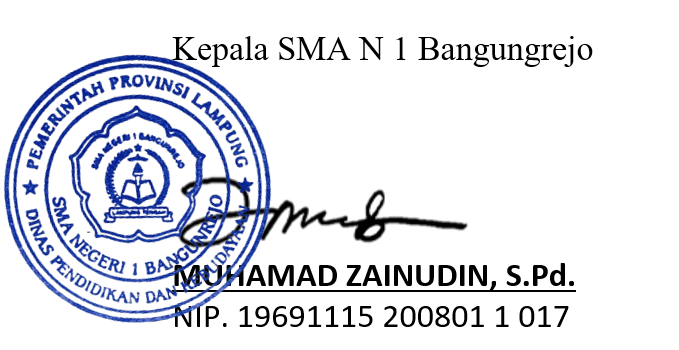
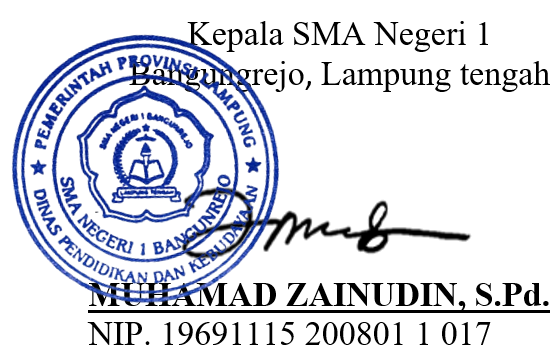
Desain kartu pelajar: layout kop & ttd disempurnakan
+ TTD kepsek: aset baru transparan, 15mm flush kanan + margin 1mm, NIP duduk di band footer

+ Logo kop: hapus badge/background putih, logo transparan langsung di gradasi

+ to_jpeg() alpha-preserving (output PNG) untuk logo/ikon/QR/ttd agar transparansi PDF utuh

+ QR diperbesar 15mm; alamat panjang wrap di kolomnya (tidak menimpa ttd)

+ Aksen garis biru sisi teks KARTU PELAJAR kini ikut di PDF

+ Bingkai hitam 0.3mm digambar terakhir (tidak putus tertimpa rect), match preview

+ Teks kop & KARTU PELAJAR diperbesar; dashed band/footer dihapus; band judul #f1f1f1 (footer tetap #f8fafc)

+ Stripe kop pas binggai (overdraw dihapus); kop 8pt/7pt; KARTU PELAJAR putih abu #f1f1f1

diff --git a/admin/unduh_kartu.php b/admin/unduh_kartu.php
@@ -15,6 +15,46 @@ class PDF_Kartu extends FPDF
 {
     protected $extgstates = array();
 
+    // Ellipse (FPDF core tidak punya) — 4 kurva Bezier, raw PDF operator
+    function ellipse($x, $y, $w, $h, $style = 'D')
+    {
+        $k = $this->k;
+        $hp = $this->h;
+        $kappa = 0.5522847498;
+        $cx = $x + $w / 2;
+        $cy = $y + $h / 2;
+        $ox = ($w / 2) * $kappa;
+        $oy = ($h / 2) * $kappa;
+        $op = sprintf(
+            '%.2F %.2F m ' .
+            '%.2F %.2F %.2F %.2F %.2F %.2F c ' . // atas -> kanan
+            '%.2F %.2F %.2F %.2F %.2F %.2F c ' . // kanan -> bawah
+            '%.2F %.2F %.2F %.2F %.2F %.2F c ' . // bawah -> kiri
+            '%.2F %.2F %.2F %.2F %.2F %.2F c ',  // kiri -> atas
+            $cx * $k, ($hp - $y) * $k,
+            ($cx + $ox) * $k, ($hp - $y) * $k,
+            ($x + $w) * $k, ($hp - ($cy - $oy)) * $k,
+            ($x + $w) * $k, ($hp - $cy) * $k,
+            ($x + $w) * $k, ($hp - ($cy + $oy)) * $k,
+            ($cx + $ox) * $k, ($hp - ($y + $h)) * $k,
+            $cx * $k, ($hp - ($y + $h)) * $k,
+            ($cx - $ox) * $k, ($hp - ($y + $h)) * $k,
+            $x * $k, ($hp - ($cy + $oy)) * $k,
+            $x * $k, ($hp - $cy) * $k,
+            $x * $k, ($hp - ($cy - $oy)) * $k,
+            ($cx - $ox) * $k, ($hp - $y) * $k,
+            $cx * $k, ($hp - $y) * $k
+        );
+        if ($style === 'F') {
+            $op .= 'f';
+        } elseif ($style === 'DF') {
+            $op .= 'B';
+        } else {
+            $op .= 'S';
+        }
+        $this->_out($op);
+    }
+
     function SetAlpha($alpha, $bm = 'Normal')
     {
         $gs = $this->AddExtGState(array('ca' => $alpha, 'CA' => $alpha, 'BM' => '/' . $bm));
@@ -111,12 +151,30 @@ function to_jpeg($src, $maxW, $maxH)
     $nw = max(1, round($w * $scale));
     $nh = max(1, round($h * $scale));
     $out = imagecreatetruecolor($nw, $nh);
-    $white = imagecolorallocate($out, 255, 255, 255);
-    imagefill($out, 0, 0, $white);
+    // Preserve alpha bila source punya transparansi (logo, ikon, ttd);
+    // foto biasa (tanpa alpha) tetap berlatar putih.
+    $hasAlpha = false;
+    $stepX = max(1, intdiv($w, 40));
+    $stepY = max(1, intdiv($h, 40));
+    for ($yy = 0; $yy < $h && !$hasAlpha; $yy += $stepY) {
+        for ($xx = 0; $xx < $w && !$hasAlpha; $xx += $stepX) {
+            if (((imagecolorat($im, $xx, $yy) & 0x7F000000) >> 24) >= 100) {
+                $hasAlpha = true;
+            }
+        }
+    }
+    if ($hasAlpha) {
+        imagesavealpha($out, true);
+        imagealphablending($out, false);
+        imagefilledrectangle($out, 0, 0, $nw, $nh, imagecolorallocatealpha($out, 0, 0, 0, 127));
+    } else {
+        imagefill($out, 0, 0, imagecolorallocate($out, 255, 255, 255));
+    }
+    imagealphablending($out, true);
     imagecopyresampled($out, $im, 0, 0, 0, 0, $nw, $nh, $w, $h);
     imagedestroy($im);
-    $tmp = tempnam(sys_get_temp_dir(), 'kartu') . '.jpg';
-    imagejpeg($out, $tmp, 90);
+    $tmp = tempnam(sys_get_temp_dir(), 'kartu') . '.png';
+    imagepng($out, $tmp, 9);
     imagedestroy($out);
     return $tmp;
 }
@@ -159,8 +217,11 @@ function grad_color($t)
 }
 
 // Garis putus-putus
-function dashed_line($pdf, $x1, $y, $x2, $lw, $gap)
+function dashed_line($pdf, $x1, $y, $x2, $lw, $gap, $cr = null, $cg = null, $cb = null)
 {
+    if ($cr !== null) {
+        $pdf->SetDrawColor($cr, $cg, $cb);
+    }
     $x = $x1;
     while ($x < $x2) {
         $end = min($x + $lw, $x2);
@@ -197,7 +258,8 @@ $cDark = array(15, 23, 42);
 $cBlueDark = array(30, 58, 138);
 $cBlue = array(59, 130, 246);
 $cLineLight = array(147, 197, 253);
-$cBg = array(248, 250, 252);
+$cBg = array(241, 241, 241);       // band judul: putih samar abu-abu (match HTML #f1f1f1)
+$cFooter = array(248, 250, 252);   // band footer tetap #f8fafc (match HTML)
 $cGold = array(251, 191, 36);
 $cGray = array(148, 163, 184);
 $cBody = array(71, 85, 105);
@@ -213,7 +275,7 @@ $logo_in = 8.2;  // logo di dalam badge
 $logo_pad = 0.53;
 $photo_w = 13.19; // foto
 $photo_h = 16.4;
-$qr_size = 12.84; // QR
+$qr_size = 15.0; // QR (diperbesar lagi; bottom y+37.09, gap 0.31mm di atas tinta ttd y+37.4)
 $pad = 2.85;
 
 foreach ($students as $idx => $s) {
@@ -225,28 +287,23 @@ foreach ($students as $idx => $s) {
     $x = 12 + ($slot % 2) * 95.6;
     $y = 8 + intval($slot / 2) * 70;
 
-    // ---- Bingkai kartu ----
-    $pdf->SetLineWidth(0.3);
-    $pdf->SetDrawColor($cDark[0], $cDark[1], $cDark[2]);
-    $pdf->Rect($x, $y, $CW, $CH);
+    // (bingkai digambar TERAKHIR di akhir loop agar tidak tertimpa rect kop/band/footer)
 
     // ---- KOP: gradasi ----
     $steps = 60;
     $stripe = $CW / $steps;
+    $stripeOver = 0; // overdraw 0.5mm dihapus: background kop jangan melewati bingkai kanan
     for ($i = 0; $i < $steps; $i++) {
         $c = grad_color($i / $steps);
         $pdf->SetFillColor($c[0], $c[1], $c[2]);
-        $pdf->Rect($x + $i * $stripe, $y, $stripe + 0.5, $kopH, 'F');
+        $pdf->Rect($x + $i * $stripe, $y, $stripe + $stripeOver, $kopH, 'F');
     }
     // Garis bawah kop
     $pdf->SetLineWidth(0.5);
     $pdf->SetDrawColor($cLineLight[0], $cLineLight[1], $cLineLight[2]);
     $pdf->Line($x, $y + $kopH, $x + $CW, $y + $kopH);
 
-    // Badge putih + logo kiri & kanan
-    $pdf->SetFillColor(255, 255, 255);
-    $pdf->Rect($x + 1.35, $y + 1.5, $badge, $badge, 'F');
-    $pdf->Rect($x + $CW - 1.35 - $badge, $y + 1.5, $badge, $badge, 'F');
+    // Logo kiri & kanan langsung di atas gradasi (background putih dihapus, logo PNG transparan)
     if ($logo_lampung) {
         $pdf->Image($logo_lampung, $x + 1.35 + $logo_pad, $y + 1.5 + $logo_pad, $logo_in, $logo_in);
     }
@@ -254,30 +311,54 @@ foreach ($students as $idx => $s) {
         $pdf->Image($logo_sman1, $x + $CW - 1.35 - $badge + $logo_pad, $y + 1.5 + $logo_pad, $logo_in, $logo_in);
     }
 
-    // Teks kop (tengah)
+    // Teks kop (tengah, diperbesar)
     $pdf->SetTextColor(255, 255, 255);
-    $pdf->SetFont('Helvetica', 'B', 6.5);
-    $pdf->SetXY($x, $y + 2.2);
-    $pdf->Cell($CW, 2.3, 'PEMERINTAHAN PROVINSI LAMPUNG', 0, 0, 'C');
+    $pdf->SetFont('Helvetica', 'B', 8);
+    $pdf->SetXY($x, $y + 2.0);
+    $pdf->Cell($CW, 2.6, 'PEMERINTAHAN PROVINSI LAMPUNG', 0, 0, 'C');
 
     $pdf->SetTextColor(191, 219, 254);
-    $pdf->SetFont('Helvetica', '', 6);
-    $pdf->SetXY($x, $y + 4.7);
-    $pdf->Cell($CW, 2.1, 'DINAS PENDIDIKAN DAN KEBUDAYAAN', 0, 0, 'C');
+    $pdf->SetFont('Helvetica', '', 7);
+    $pdf->SetXY($x, $y + 4.8);
+    $pdf->Cell($CW, 2.3, 'DINAS PENDIDIKAN DAN KEBUDAYAAN', 0, 0, 'C');
 
     $pdf->SetTextColor($cGold[0], $cGold[1], $cGold[2]);
-    $pdf->SetFont('Helvetica', 'B', 6.5);
-    $pdf->SetXY($x, $y + 7.2);
-    $pdf->Cell($CW, 2.3, 'SMAN 1 BANGUNREJO', 0, 0, 'C');
+    $pdf->SetFont('Helvetica', 'B', 8);
+    $pdf->SetXY($x, $y + 7.4);
+    $pdf->Cell($CW, 2.6, 'SMAN 1 BANGUNREJO', 0, 0, 'C');
 
     // ---- Band judul ----
     $pdf->SetFillColor($cBg[0], $cBg[1], $cBg[2]);
     $pdf->Rect($x, $y + $kopH, $CW, $titleH, 'F');
-    dashed_line($pdf, $x, $y + $kopH + $titleH, $x + $CW, 0.3, 0.2);
+    // (dashed line di bawah band judul dihapus sesuai request)
     $pdf->SetTextColor($cBlueDark[0], $cBlueDark[1], $cBlueDark[2]);
-    $pdf->SetFont('Helvetica', 'B', 6);
-    $pdf->SetXY($x, $y + $kopH + 1.35);
-    $pdf->Cell($CW, 2.0, 'KARTU PELAJAR', 0, 0, 'C');
+    $pdf->SetFont('Helvetica', 'B', 7.5);
+    $pdf->SetXY($x, $y + $kopH + 1.7);
+    $pdf->Cell($CW, 2.4, 'KARTU PELAJAR', 0, 0, 'C');
+
+    // Aksen tanda "-" di sisi kiri & kanan judul (meniru tampilan web: gradasi transparan -> biru)
+    $barW = 6.88;   // 26px
+    $barH = 0.4;    // 1.5px
+    $barGap = 2.12; // 8px
+    $cBlueAcc = array(59, 130, 246); // #3b82f6
+    $cxBar = $x + $CW / 2;
+    $halfT = $pdf->GetStringWidth('KARTU PELAJAR') / 2 + 0.5;
+    $segs = array(0.35, 0.7, 1.0); // gradasi 3 segmen (transparan -> biru)
+    $segW = $barW / count($segs);
+    $yBar = $y + $kopH + 2.9 - $barH / 2;
+    foreach (array(-1, 1) as $side) {
+        foreach ($segs as $i => $f) {
+            $pdf->SetFillColor(
+                $cBg[0] + ($cBlueAcc[0] - $cBg[0]) * $f,
+                $cBg[1] + ($cBlueAcc[1] - $cBg[1]) * $f,
+                $cBg[2] + ($cBlueAcc[2] - $cBg[2]) * $f
+            );
+            $bx = ($side < 0)
+                ? ($cxBar - $halfT - $barGap - $barW + $i * $segW)
+                : ($cxBar + $halfT + $barGap + $i * $segW);
+            $pdf->Rect($bx, $yBar, $segW + 0.01, $barH, 'F');
+        }
+    }
 
     // ---- Watermark logo di tengah kartu ----
     if ($logo_sman1_wm) {
@@ -329,7 +410,9 @@ foreach ($students as $idx => $s) {
     $lblX = $infoX + 1.07 + $iconSize;
     $colonX = $lblX + 10.35;           // kolom label
     $valX = $colonX + 1.07;
-    $valMaxRow = $x + $CW - $pad - $qr_size - $pad - $valX;
+    // Lebar nilai dibatasi berhenti sebelum zona tanda tangan (ttd mulai x+61.37),
+    // supaya alamat panjang wrap ke bawah, bukan menimpa tanda tangan.
+    $valMaxRow = ($x + 60.2) - $valX;
 
     $rowY = $nameY + 4.68;
     foreach ($rows as $r) {
@@ -345,14 +428,19 @@ foreach ($students as $idx => $s) {
         $pdf->SetXY($colonX, $rowY);
         $pdf->Cell(1.07, 2.0, ':');
         // Nilai
-        $pdf->SetTextColor($cBody[0], $cBody[1], $cBody[2]);
+        $pdf->SetTextColor(0, 0, 0);
         $pdf->SetFont('Helvetica', '', 6);
         if ($r[0] === 'alamat') {
             $pdf->SetXY($valX, $rowY);
             $pdf->MultiCell($valMaxRow, 2.0, $r[2]);
         } else {
             $pdf->SetXY($valX, $rowY);
-            $pdf->Cell($valMaxRow, 2.0, $r[2]);
+            // Clip di lebar kolom (… bila kepanjangan), tidak menimpa QR/ttd
+            $valClip = mb_substr($r[2], 0, 37);
+            if (mb_strlen($r[2]) > 37) {
+                $valClip = rtrim(mb_substr($r[2], 0, 34)) . chr(133);
+            }
+            $pdf->Cell($valMaxRow, 2.0, $valClip);
         }
         $rowY += 2.89;
     }
@@ -373,36 +461,41 @@ foreach ($students as $idx => $s) {
     $pdf->SetDrawColor($cPhotoBorder[0], $cPhotoBorder[1], $cPhotoBorder[2]);
     $pdf->Rect($qrx, $qry, $qr_size, $qr_size);
     $pdf->SetTextColor($cGray[0], $cGray[1], $cGray[2]);
-    $pdf->SetFont('Helvetica', 'B', 4.5);
-    $pdf->SetXY($qrx, $qry + $qr_size + 0.71);
-    $pdf->Cell($qr_size, 1.5, 'QR ABSEN', 0, 0, 'C');
 
     // ---- Tanda tangan Kepala Sekolah (kanan bawah, di bawah QR) ----
     // Gambar sudah memuat cap + tanda tangan + nama + NIP (semua di dalam gambar).
-    $ttdRight = $x + $CW - $pad;          // tepi kanan rata
-    $ttdH = 12.0;                          // tinggi gambar (mm)
-    // Rasio dibaca dinamik dari file aset (fallback 679x350 bila getimagesize gagal)
+    $ttdRight = $x + $CW - 1.0;           // margin kanan 1mm dari tepi kartu (gambar sudah di-crop flush kanan)
+    $ttdH = 15.0;                          // tinggi gambar (mm)
+    // Rasio dibaca dinamik dari file aset (fallback 626x356 bila getimagesize gagal)
     $ttd_size = @getimagesize(KEPSEK_TTD);
-    $ttd_ratio = 679 / 350;
+    $ttd_ratio = 550 / 356;
     if (is_array($ttd_size) && !empty($ttd_size) && !empty($ttd_size[1])) {
         $ttd_ratio = $ttd_size[0] / $ttd_size[1];
     }
     $ttdW = $ttdH * $ttd_ratio;
-    $ttdY = $y + 37.5;                     // mulai di bawah caption QR (37.14), muat antes footer (49.86)
+    $ttdY = $y + 36.5;                     // mulai di bawah QR (34.93); NIP duduk ~1.6mm di band footer
     // Gambar tanda tangan (PNG transparan — FPDF mendukung alpha)
     if (file_exists(KEPSEK_TTD)) {
         $pdf->Image(KEPSEK_TTD, $ttdRight - $ttdW, $ttdY, $ttdW, $ttdH);
     }
 
-    // ---- Footer (teks di paling bawah, dengan garis dashed di atas) ----
+    // ---- Footer (digambar DULU, karena gambar ttd boleh menimpa band footer;
+// background ttd sudah transparan) ----
     $fTop = $y + $CH - $footerH;
-    $pdf->SetFillColor($cBg[0], $cBg[1], $cBg[2]);
+    $pdf->SetFillColor($cFooter[0], $cFooter[1], $cFooter[2]);
     $pdf->Rect($x, $fTop, $CW, $footerH, 'F');
-    dashed_line($pdf, $x, $fTop + 0.4, $x + $CW, 0.3, 0.2);
     $pdf->SetTextColor($cGray[0], $cGray[1], $cGray[2]);
     $pdf->SetFont('Helvetica', 'B', 4.5);
     $pdf->SetXY($x, $fTop + 2.15);
     $pdf->Cell($CW, 1.7, 'KARTU INI WAJIB DIBAWA SETIAP HARI', 0, 0, 'C');
+    // garis dashed pas di atas teks footer (teks cell top = fTop+2.15; masih di bawah NIP)
+    // (garis patah-patah footer dihapus sesuai request)
+
+    // ---- Bingkai kartu digambar TERAKHIR: hitam 0.3mm, sama persis dengan preview HTML (1.13px) ----
+    // Setelah semua isi, agar tidak tertimpa rect gradasi kop / band judul / footer (penyebab garis putus)
+    $pdf->SetLineWidth(0.3);
+    $pdf->SetDrawColor(0, 0, 0);
+    $pdf->Rect($x, $y, $CW, $CH);
 
     // Bersihkan file sementara foto/QR
     if (!empty($foto_jpeg)) @unlink($foto_jpeg);

diff --git a/admin/cetak_kartu.php b/admin/cetak_kartu.php
@@ -57,19 +57,19 @@ if (!empty($filter_class)) {
         .cards-grid { max-width: 1000px; margin: 20px auto 40px; padding: 0 20px; display: grid; grid-template-columns: 1fr 1fr; gap: 24px; }
         
         /* Kartu Pelajar (ukuran sama dengan KTP: 85.60 x 53.98 mm) */
-        .id-card { position: relative; background: white; border: 1.5px solid #1e293b; border-radius: 12px; overflow: hidden; box-shadow: 0 8px 20px rgba(0,0,0,0.12); page-break-inside: avoid; display: flex; flex-direction: column; width: 85.6mm; height: 53.98mm; -webkit-print-color-adjust: exact; print-color-adjust: exact; }
+        .id-card { position: relative; background: white; border: 1.13px solid #000; overflow: hidden; box-shadow: 0 8px 20px rgba(0,0,0,0.12); page-break-inside: avoid; display: flex; flex-direction: column; width: 85.6mm; height: 53.98mm; -webkit-print-color-adjust: exact; print-color-adjust: exact; }
         /* Watermark logo di tengah kartu */
         .id-card .watermark { position: absolute; top: 60%; left: 50%; transform: translate(-50%, -50%); width: 108px; height: 108px; object-fit: contain; opacity: 0.1; pointer-events: none; z-index: 0; }
         .id-card .card-kop, .id-card .card-title-band, .id-card .card-body, .id-card .card-footer { position: relative; z-index: 1; }
         /* Kop Surat: gradasi biru, logo kiri & kanan, teks di tengah */
         .id-card .card-kop { background: linear-gradient(135deg, #0f172a 0%, #1e3a8a 60%, #3b82f6 100%); padding: 7px 10px 6px; display: flex; align-items: center; justify-content: space-between; gap: 6px; border-bottom: 2px solid #93c5fd; -webkit-print-color-adjust: exact; print-color-adjust: exact; }
-        .id-card .card-kop img.kop-logo { width: 34px; height: 34px; object-fit: contain; flex-shrink: 0; background: white; border-radius: 10px; padding: 2px; }
+        .id-card .card-kop img.kop-logo { width: 34px; height: 34px; object-fit: contain; flex-shrink: 0; }
         .id-card .card-kop .kop-text { text-align: center; min-width: 0; }
-        .id-card .card-kop .kop-text .kop-line1 { font-size: 9px; font-weight: 800; color: white; letter-spacing: 0.5px; text-transform: uppercase; white-space: nowrap; }
-        .id-card .card-kop .kop-text .kop-line2 { font-size: 8px; font-weight: 600; color: #bfdbfe; letter-spacing: 0.5px; margin-top: 1px; text-transform: uppercase; white-space: nowrap; }
-        .id-card .card-kop .kop-text .kop-line3 { font-size: 9px; font-weight: 800; color: #fbbf24; letter-spacing: 1px; margin-top: 1px; text-transform: uppercase; white-space: nowrap; }
+        .id-card .card-kop .kop-text .kop-line1 { font-size: 11.5px; font-weight: 800; color: white; letter-spacing: 0.5px; text-transform: uppercase; white-space: nowrap; }
+        .id-card .card-kop .kop-text .kop-line2 { font-size: 10px; font-weight: 600; color: #bfdbfe; letter-spacing: 0.5px; margin-top: 1px; text-transform: uppercase; white-space: nowrap; }
+        .id-card .card-kop .kop-text .kop-line3 { font-size: 11.5px; font-weight: 800; color: #fbbf24; letter-spacing: 1px; margin-top: 1px; text-transform: uppercase; white-space: nowrap; }
         /* Judul band modern dengan garis samping */
-        .id-card .card-title-band { padding: 3px 10px; display: flex; align-items: center; justify-content: center; gap: 8px; font-size: 8px; font-weight: 800; letter-spacing: 2px; color: #1e3a8a; text-transform: uppercase; border-bottom: 1px dashed #cbd5e1; background: #f8fafc; }
+        .id-card .card-title-band { padding: 4px 10px 5px; display: flex; align-items: center; justify-content: center; gap: 8px; font-size: 10px; font-weight: 800; letter-spacing: 2px; color: #1e3a8a; text-transform: uppercase; background: #f1f1f1; }
         .id-card .card-title-band::before, .id-card .card-title-band::after { content: ''; height: 1.5px; width: 26px; background: linear-gradient(90deg, transparent, #3b82f6); border-radius: 2px; }
         .id-card .card-title-band::after { background: linear-gradient(90deg, #3b82f6, transparent); }
         .id-card .card-body { padding: 9px 10px; display: flex; gap: 8px; align-items: flex-start; }
@@ -81,14 +81,18 @@ if (!empty($filter_class)) {
         .id-card .card-info .detail i { color: #3b82f6; width: 10px; text-align: center; flex-shrink: 0; margin-top: 1px; }
         .id-card .card-info .detail .lbl { display: inline-flex; align-items: baseline; justify-content: space-between; width: 38px; color: #0f172a; font-weight: 700; flex-shrink: 0; }
         .id-card .card-info .detail .lbl .colon { flex-shrink: 0; }
-        .id-card .card-info .detail .val { color: #475569; font-weight: 600; min-width: 0; word-break: break-word; }
+        .id-card .card-info .detail .val { color: #000; font-weight: 600; min-width: 0; word-break: break-word; }
+        /* ALAMAT: nilai wrap di kolom sendiri (hanging indent), berhenti sebelum zona tanda tangan */
+        .id-card .card-info .detail.detail-wrap { display: block; position: relative; padding-left: 56px; max-width: calc(56px + 28.6mm); }
+        .id-card .card-info .detail.detail-wrap i { position: absolute; left: 0; top: 1px; }
+        .id-card .card-info .detail.detail-wrap .lbl { position: absolute; left: 14px; top: 0; }
+        .id-card .card-info .detail.detail-wrap .val { display: inline; }
         .id-card .card-qr { display: flex; flex-direction: column; align-items: center; gap: 2px; flex-shrink: 0; }
-        .id-card .card-qr img { width: 50px; height: 50px; border: 1px solid #e2e8f0; border-radius: 6px; padding: 2px; background: white; }
-        .id-card .card-qr span { font-size: 6px; font-weight: 700; color: #94a3b8; letter-spacing: 1px; text-transform: uppercase; }
-        .id-card .card-footer { margin-top: auto; background: #f8fafc; border-top: 1px dashed #cbd5e1; padding: 3px 10px; font-size: 6px; font-weight: 700; color: #94a3b8; letter-spacing: 1px; text-align: center; text-transform: uppercase; }
+        .id-card .card-qr img { width: 57px; height: 57px; border: 1px solid #e2e8f0; border-radius: 6px; padding: 2px; background: white; }
+        .id-card .card-footer { margin-top: auto; background: #f8fafc; padding: 3px 10px; font-size: 6px; font-weight: 700; color: #94a3b8; letter-spacing: 1px; text-align: center; text-transform: uppercase; position: relative; }
         /* Blok tanda tangan Kepala Sekolah (kanan bawah) — gambar memuat cap + nama + NIP */
-        .id-card .card-ttd { position: absolute; right: 8px; bottom: 4.6mm; text-align: right; z-index: 2; line-height: 1.25; }
-        .id-card .card-ttd img { height: 12mm; width: auto; display: inline-block; margin: 0.2mm 0; }
+        .id-card .card-ttd { position: absolute; right: 1mm; bottom: 2mm; text-align: right; z-index: 2; line-height: 1.25; }
+        .id-card .card-ttd img { height: 15mm; width: auto; display: inline-block; margin: 0.2mm 0; }
         
         .empty-state { max-width: 1000px; margin: 40px auto; padding: 40px 20px; text-align: center; background: white; border-radius: 16px; }
         .empty-state i { font-size: 40px; color: #cbd5e1; margin-bottom: 12px; display: block; }
@@ -105,7 +109,7 @@ if (!empty($filter_class)) {
             body { background: white; }
             .toolbar, .info-bar { display: none !important; }
             .cards-grid { max-width: 100%; margin: 0; padding: 0; gap: 8px; }
-            .id-card { box-shadow: none; border: 1px solid #000; border-radius: 8px; }
+            .id-card { box-shadow: none; border: 1.13px solid #000; border-radius: 0; }
         }
     </style>
 </head>
@@ -180,16 +184,15 @@ if (!empty($filter_class)) {
                             <div class="detail"><i class="fa-solid fa-hashtag"></i> <span class="lbl">NISN<span class="colon">:</span></span><span class="val"><?= htmlspecialchars(!empty($s['nisn']) ? $s['nisn'] : '-') ?></span></div>
                             <div class="detail"><i class="fa-solid fa-cake-candles"></i> <span class="lbl">TTL<span class="colon">:</span></span><span class="val"><?= htmlspecialchars($ttl) ?></span></div>
                             <div class="detail"><i class="fa-solid fa-venus-mars"></i> <span class="lbl">JK<span class="colon">:</span></span><span class="val"><?= $jk ?></span></div>
-                            <div class="detail"><i class="fa-solid fa-location-dot"></i> <span class="lbl">ALAMAT<span class="colon">:</span></span><span class="val"><?= htmlspecialchars(!empty($s['alamat']) ? $s['alamat'] : '-') ?></span></div>
+                            <div class="detail detail-wrap"><i class="fa-solid fa-location-dot"></i> <span class="lbl">ALAMAT<span class="colon">:</span></span><span class="val"><?= htmlspecialchars(!empty($s['alamat']) ? $s['alamat'] : '-') ?></span></div>
                         </div>
                         <div class="card-qr">
                             <img src="https://api.qrserver.com/v1/create-qr-code/?size=200x200&data=<?= urlencode($s['nisn']) ?>" alt="QR">
-                            <span>QR Absen</span>
                         </div>
                     </div>
                     <div class="card-footer">Kartu ini wajib dibawa setiap hari</div>
                     <div class="card-ttd">
-                        <img src="../assets/ttd_kepsek.png?v=4" alt="Tanda tangan Kepala Sekolah">
+                        <img src="../assets/ttd_kepsek.png?v=7" alt="Tanda tangan Kepala Sekolah">
                     </div>
                     <img class="watermark" src="../assets/logo_sman1.png" alt="">
                 </div>
